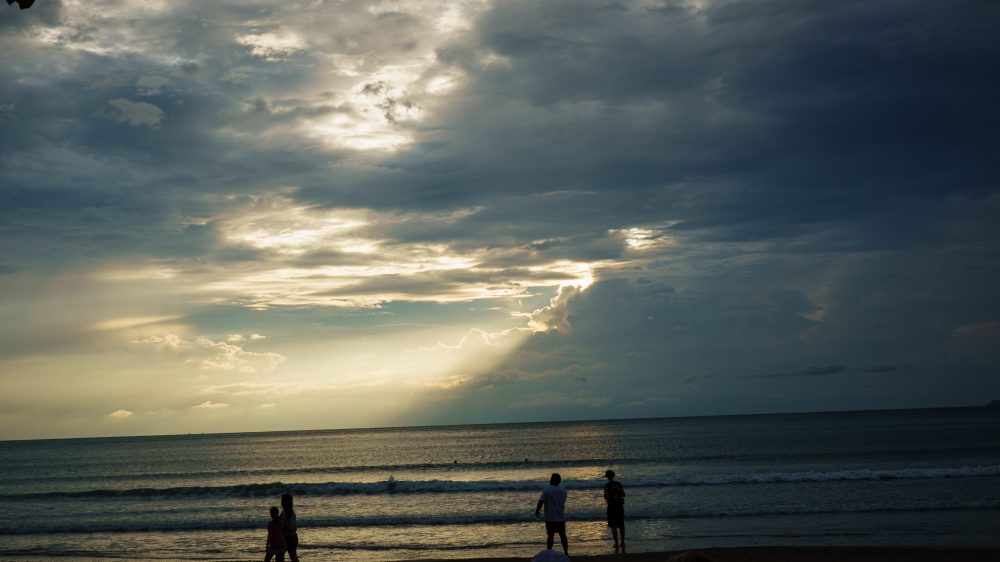
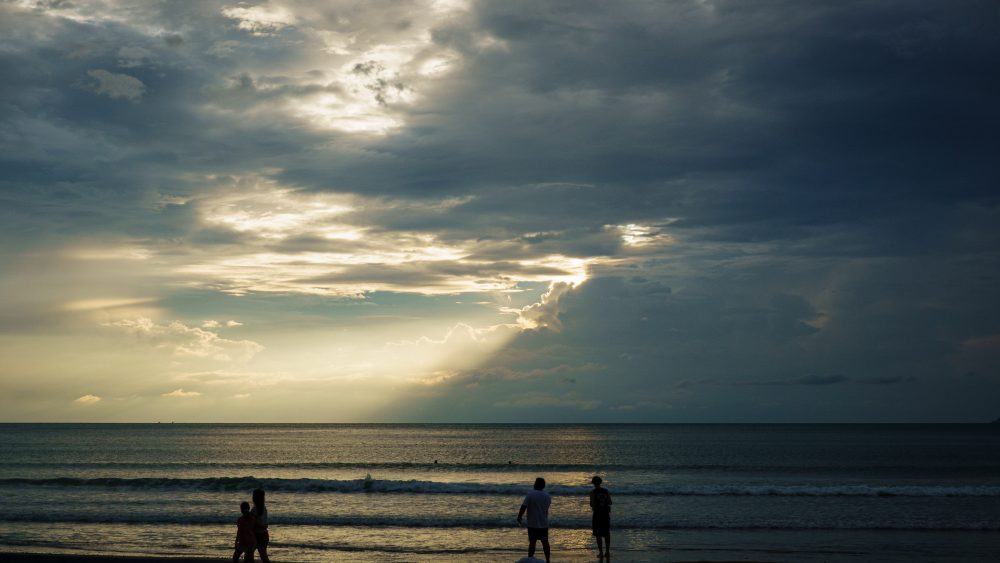
Trip feed: straighten three sea horizons

diff --git a/p/qiEMDSfsdYUv/index.html b/p/qiEMDSfsdYUv/index.html
@@ -129,7 +129,7 @@
 </div></div>
 
 <script>
-const D = {"title": "The Adventures of Rob Rob", "subtitle": "Nature photos from the trip \u00b7 tap any photo for full screen", "end": "That's everything, thanks for looking.", "days": [{"label": "Day 3", "sub": "Macaques, butterflies and the national park", "items": [{"group": "Macaques", "note": "Macaque portrait, looking up into the light", "details": "", "phone": false, "thumb": "img/d3/779.jpg", "full": "img/d3/full/779.jpg", "w": 3648, "h": 5472, "tw": 1000, "fw": 1707, "id": "d3-779"}, {"group": "Macaques", "note": "Two macaques grooming on a branch", "details": "", "phone": false, "thumb": "img/d3/758.jpg", "full": "img/d3/full/758.jpg", "w": 3600, "h": 2400, "tw": 1000, "fw": 2560, "id": "d3-758"}, {"group": "Macaques", "note": "Grooming, with a third macaque watching from behind", "details": "", "phone": false, "thumb": "img/d3/771.jpg", "full": "img/d3/full/771.jpg", "w": 5472, "h": 3648, "tw": 1000, "fw": 2560, "id": "d3-771"}, {"group": "Macaques", "note": "Macaque in profile on a low branch", "details": "", "phone": false, "thumb": "img/d3/763.jpg", "full": "img/d3/full/763.jpg", "w": 4000, "h": 2667, "tw": 1000, "fw": 2560, "id": "d3-763"}, {"group": "Macaques", "note": "Macaque looking down from the fork of a tree", "details": "", "phone": false, "thumb": "img/d3/772.jpg", "full": "img/d3/full/772.jpg", "w": 3648, "h": 5472, "tw": 1000, "fw": 1707, "id": "d3-772"}, {"group": "Macaques", "note": "Macaque on a branch, backlit by the forest", "details": "", "phone": false, "thumb": "img/d3/784.jpg", "full": "img/d3/full/784.jpg", "w": 3600, "h": 2400, "tw": 1000, "fw": 2560, "id": "d3-784"}, {"group": "Macaques", "note": "Macaque lost in thought", "details": "", "phone": false, "thumb": "img/d3/793.jpg", "full": "img/d3/full/793.jpg", "w": 5472, "h": 3648, "tw": 1000, "fw": 2560, "id": "d3-793"}, {"group": "Macaques", "note": "Macaque looking down at its hands", "details": "", "phone": false, "thumb": "img/d3/798.jpg", "full": "img/d3/full/798.jpg", "w": 3648, "h": 5472, "tw": 1000, "fw": 1707, "id": "d3-798"}, {"group": "Insects", "note": "Butterfly with its wings spread on a sunlit leaf", "details": "", "phone": false, "thumb": "img/d3/737.jpg", "full": "img/d3/full/737.jpg", "w": 5472, "h": 3648, "tw": 1000, "fw": 2560, "id": "d3-737"}, {"group": "Insects", "note": "Carpenter bee on a yellow trumpet flower", "details": "", "phone": false, "thumb": "img/d3/754.jpg", "full": "img/d3/full/754.jpg", "w": 3200, "h": 2133, "tw": 1000, "fw": 2560, "id": "d3-754"}, {"group": "Insects", "note": "Giant millipede crossing a log", "details": "", "phone": false, "thumb": "img/d3/715.jpg", "full": "img/d3/full/715.jpg", "w": 4400, "h": 2933, "tw": 1000, "fw": 2560, "id": "d3-715"}, {"group": "Birds", "note": "Common myna, glossy black head and yellow eye patch", "details": "", "phone": false, "thumb": "img/d3/696.jpg", "full": "img/d3/full/696.jpg", "w": 5472, "h": 3648, "tw": 1000, "fw": 2560, "id": "d3-696"}, {"group": "Birds", "note": "Common myna looking up", "details": "", "phone": false, "thumb": "img/d3/699.jpg", "full": "img/d3/full/699.jpg", "w": 3648, "h": 5472, "tw": 1000, "fw": 1707, "id": "d3-699"}, {"group": "Forest & coast", "note": "The lighthouse across the turquoise bay", "details": "", "phone": false, "thumb": "img/d3/742.jpg", "full": "img/d3/full/742.jpg", "w": 4916, "h": 2764, "tw": 1000, "fw": 2560, "id": "d3-742"}, {"group": "Forest & coast", "note": "A little boat on the turquoise sea", "details": "", "phone": false, "thumb": "img/d3/753.jpg", "full": "img/d3/full/753.jpg", "w": 4200, "h": 2800, "tw": 1000, "fw": 2560, "id": "d3-753"}, {"group": "Forest & coast", "note": "Palm against a blue sky", "details": "", "phone": false, "thumb": "img/d3/744.jpg", "full": "img/d3/full/744.jpg", "w": 3648, "h": 5472, "tw": 1000, "fw": 1707, "id": "d3-744"}, {"group": "Forest & coast", "note": "Path through the green tunnel", "details": "", "phone": false, "thumb": "img/d3/710.jpg", "full": "img/d3/full/710.jpg", "w": 3648, "h": 5472, "tw": 1000, "fw": 1707, "id": "d3-710"}, {"group": "Forest & coast", "note": "Sunlight through the park trees", "details": "", "phone": false, "thumb": "img/d3/702.jpg", "full": "img/d3/full/702.jpg", "w": 5472, "h": 3079, "tw": 1000, "fw": 2560, "id": "d3-702"}, {"group": "Forest & coast", "note": "Palms below the hills", "details": "", "phone": false, "thumb": "img/d3/750.jpg", "full": "img/d3/full/750.jpg", "w": 5472, "h": 3079, "tw": 1000, "fw": 2560, "id": "d3-750"}]}, {"label": "Day 2", "sub": "Birds in the rain, reef herons, cats and the coast", "items": [{"group": "Birds", "note": "Bee-eater tossing an insect before swallowing it", "details": "", "phone": false, "thumb": "img/d2/594.jpg", "full": "img/d2/full/594.jpg", "w": 2000, "h": 1333, "tw": 1000, "fw": 2000, "id": "d2-594"}, {"group": "Birds", "note": "Bee-eater with an insect in its beak", "details": "", "phone": false, "thumb": "img/d2/589.jpg", "full": "img/d2/full/589.jpg", "w": 2000, "h": 1333, "tw": 1000, "fw": 2000, "id": "d2-589"}, {"group": "Birds", "note": "Bee-eater on the wire", "details": "", "phone": false, "thumb": "img/d2/607.jpg", "full": "img/d2/full/607.jpg", "w": 2000, "h": 1333, "tw": 1000, "fw": 2000, "id": "d2-607"}, {"group": "Birds", "note": "Swallow on a wire in the rain", "details": "", "phone": false, "thumb": "img/d2/569.jpg", "full": "img/d2/full/569.jpg", "w": 2400, "h": 1600, "tw": 1000, "fw": 2400, "id": "d2-569"}, {"group": "Birds", "note": "Swallow side-on on the wire", "details": "", "phone": false, "thumb": "img/d2/560.jpg", "full": "img/d2/full/560.jpg", "w": 2400, "h": 1600, "tw": 1000, "fw": 2400, "id": "d2-560"}, {"group": "Birds", "note": "Swallow in front of a red tin roof", "details": "", "phone": false, "thumb": "img/d2/566.jpg", "full": "img/d2/full/566.jpg", "w": 2400, "h": 1600, "tw": 1000, "fw": 2400, "id": "d2-566"}, {"group": "Birds", "note": "Swallow on the wire in the rain", "details": "", "phone": false, "thumb": "img/d2/581.jpg", "full": "img/d2/full/581.jpg", "w": 2400, "h": 1600, "tw": 1000, "fw": 2400, "id": "d2-581"}, {"group": "Birds", "note": "White egret on the canal wall", "details": "", "phone": false, "thumb": "img/d2/626.jpg", "full": "img/d2/full/626.jpg", "w": 3600, "h": 2400, "tw": 1000, "fw": 2560, "id": "d2-626"}, {"group": "Birds", "note": "Reef heron on the beach", "details": "", "phone": false, "thumb": "img/d2/660.jpg", "full": "img/d2/full/660.jpg", "w": 3000, "h": 2000, "tw": 1000, "fw": 2560, "id": "d2-660"}, {"group": "Birds", "note": "Reef heron walking the shoreline", "details": "", "phone": false, "thumb": "img/d2/664.jpg", "full": "img/d2/full/664.jpg", "w": 2600, "h": 1733, "tw": 1000, "fw": 2560, "id": "d2-664"}, {"group": "Birds", "note": "Reef heron standing on a rock in the surf", "details": "", "phone": false, "thumb": "img/d2/652.jpg", "full": "img/d2/full/652.jpg", "w": 2200, "h": 1467, "tw": 1000, "fw": 2200, "id": "d2-652"}, {"group": "Birds", "note": "Reef heron crouched on a rock as a wave breaks", "details": "", "phone": false, "thumb": "img/d2/653.jpg", "full": "img/d2/full/653.jpg", "w": 2400, "h": 1600, "tw": 1000, "fw": 2400, "id": "d2-653"}, {"group": "Cats", "note": "Black-and-white cat fast asleep", "details": "", "phone": false, "thumb": "img/d2/637.jpg", "full": "img/d2/full/637.jpg", "w": 5472, "h": 3648, "tw": 1000, "fw": 2560, "id": "d2-637"}, {"group": "Cats", "note": "Tortoiseshell cat curled on the table", "details": "", "phone": false, "thumb": "img/d2/680.jpg", "full": "img/d2/full/680.jpg", "w": 5472, "h": 3648, "tw": 1000, "fw": 2560, "id": "d2-680"}, {"group": "Cats", "note": "Tortoiseshell cat beside a carved eagle", "details": "", "phone": false, "thumb": "img/d2/684.jpg", "full": "img/d2/full/684.jpg", "w": 3648, "h": 5472, "tw": 1000, "fw": 1707, "id": "d2-684"}, {"group": "Cats", "note": "Cat and carved eagle against the sunset", "details": "", "phone": false, "thumb": "img/d2/694.jpg", "full": "img/d2/full/694.jpg", "w": 5472, "h": 3648, "tw": 1000, "fw": 2560, "id": "d2-694"}, {"group": "Landscapes", "note": "Sunset with a longtail boat", "details": "", "phone": false, "thumb": "img/d2/693.jpg", "full": "img/d2/full/693.jpg", "w": 5472, "h": 3079, "tw": 1000, "fw": 2560, "id": "d2-693"}, {"group": "Landscapes", "note": "Wading in the shallows below the karst islands", "details": "", "phone": false, "thumb": "img/d2/640.jpg", "full": "img/d2/full/640.jpg", "w": 5472, "h": 3079, "tw": 1000, "fw": 2560, "id": "d2-640"}, {"group": "Landscapes", "note": "Island at low tide over the red roofs", "details": "", "phone": false, "thumb": "img/d2/645.jpg", "full": "img/d2/full/645.jpg", "w": 5472, "h": 3648, "tw": 1000, "fw": 2560, "id": "d2-645"}]}, {"label": "Day 1", "sub": "Mudflat crabs, mangroves and sunsets", "items": [{"group": "Mudflat crabs", "note": "Tiny bright-blue crab, side-on", "details": "", "phone": false, "thumb": "img/d1/457.jpg", "full": "img/d1/full/457.jpg", "w": 1650, "h": 1100, "tw": 1000, "fw": 1650, "id": "d1-457"}, {"group": "Mudflat crabs", "note": "Spotted fiddler crab beside a fallen leaf", "details": "", "phone": false, "thumb": "img/d1/468.jpg", "full": "img/d1/full/468.jpg", "w": 1500, "h": 1000, "tw": 1000, "fw": 1500, "id": "d1-468"}, {"group": "Mudflat crabs", "note": "Yellow fiddler crab, head-on against a stick", "details": "", "phone": false, "thumb": "img/d1/378.jpg", "full": "img/d1/full/378.jpg", "w": 2400, "h": 1600, "tw": 1000, "fw": 2400, "id": "d1-378"}, {"group": "Mudflat crabs", "note": "Yellow fiddler crab, eyes up on their stalks", "details": "", "phone": false, "thumb": "img/d1/395.jpg", "full": "img/d1/full/395.jpg", "w": 3000, "h": 2000, "tw": 1000, "fw": 2560, "id": "d1-395"}, {"group": "Mudflat crabs", "note": "Yellow fiddler crab, big claw raised", "details": "", "phone": false, "thumb": "img/d1/361.jpg", "full": "img/d1/full/361.jpg", "w": 2000, "h": 1333, "tw": 1000, "fw": 2000, "id": "d1-361"}, {"group": "Mudflat crabs", "note": "Two red fiddler crabs either side of a root", "details": "", "phone": false, "thumb": "img/d1/430.jpg", "full": "img/d1/full/430.jpg", "w": 3000, "h": 2000, "tw": 1000, "fw": 2560, "id": "d1-430"}, {"group": "Mudflat crabs", "note": "Male fiddler crab waving his claw outside the burrow, the female sitting inside", "details": "", "thumb": "img/d1/C0004.jpg", "full": "img/d1/full/C0004.jpg", "video": "img/d1/C0004.mp4", "w": 16, "h": 9, "id": "d1-C0004"}, {"group": "Sea & sky", "note": "A small boat as the sun goes down", "details": "", "phone": false, "thumb": "img/d1/297.jpg", "full": "img/d1/full/297.jpg", "w": 4104, "h": 2309, "tw": 1000, "fw": 2560, "id": "d1-297"}, {"group": "Sea & sky", "note": "A boat on the sun path", "details": "", "phone": false, "thumb": "img/d1/516.jpg", "full": "img/d1/full/516.jpg", "w": 5472, "h": 3079, "tw": 1000, "fw": 2560, "id": "d1-516"}, {"group": "Sea & sky", "note": "Sunset behind a weathered beam on the beach", "details": "", "phone": false, "thumb": "img/d1/255.jpg", "full": "img/d1/full/255.jpg", "w": 5472, "h": 3079, "tw": 1000, "fw": 2560, "id": "d1-255"}, {"group": "Sea & sky", "note": "Golden sea, two figures on the shore", "details": "", "phone": false, "thumb": "img/d1/514.jpg", "full": "img/d1/full/514.jpg", "w": 5472, "h": 3648, "tw": 1000, "fw": 2560, "id": "d1-514"}, {"group": "Sea & sky", "note": "Dusk, a longtail heading past the rock island", "details": "", "phone": false, "thumb": "img/d1/541.jpg", "full": "img/d1/full/541.jpg", "w": 5472, "h": 3079, "tw": 1000, "fw": 2560, "id": "d1-541"}, {"group": "Sea & sky", "note": "Longtail boats moored off the beach at dusk", "details": "", "phone": false, "thumb": "img/d1/528.jpg", "full": "img/d1/full/528.jpg", "w": 5472, "h": 3648, "tw": 1000, "fw": 2560, "id": "d1-528"}, {"group": "Sea & sky", "note": "Storm light breaking over the sea", "details": "", "phone": false, "thumb": "img/d1/146.jpg", "full": "img/d1/full/146.jpg", "w": 4651, "h": 2616, "tw": 1000, "fw": 2560, "id": "d1-146"}, {"group": "Sea & sky", "note": "A blue-grey day on the beach", "details": "", "phone": false, "thumb": "img/d1/70.jpg", "full": "img/d1/full/70.jpg", "w": 3830, "h": 2152, "tw": 1000, "fw": 2560, "id": "d1-70"}, {"group": "Mangroves & islands", "note": "Boatman in the mangroves", "details": "", "phone": false, "thumb": "img/d1/498.jpg", "full": "img/d1/full/498.jpg", "w": 4378, "h": 2919, "tw": 1000, "fw": 2560, "id": "d1-498"}, {"group": "Mangroves & islands", "note": "Longtails moored along the mangrove channel", "details": "", "phone": false, "thumb": "img/d1/314.jpg", "full": "img/d1/full/314.jpg", "w": 5472, "h": 3648, "tw": 1000, "fw": 2560, "id": "d1-314"}, {"group": "Mangroves & islands", "note": "Kayakers in the mangrove channel", "details": "", "phone": false, "thumb": "img/d1/319.jpg", "full": "img/d1/full/319.jpg", "w": 4378, "h": 2919, "tw": 1000, "fw": 2560, "id": "d1-319"}, {"group": "Mangroves & islands", "note": "Islands from the viewpoint", "details": "", "phone": false, "thumb": "img/d1/156.jpg", "full": "img/d1/full/156.jpg", "w": 5472, "h": 3079, "tw": 1000, "fw": 2560, "id": "d1-156"}, {"group": "Mangroves & islands", "note": "Island and the radio mast from the viewpoint", "details": "", "phone": false, "thumb": "img/d1/160.jpg", "full": "img/d1/full/160.jpg", "w": 5472, "h": 3079, "tw": 1000, "fw": 2560, "id": "d1-160"}, {"group": "Mangroves & islands", "note": "The lake under a big sky", "details": "", "phone": false, "thumb": "img/d1/68.jpg", "full": "img/d1/full/68.jpg", "w": 5472, "h": 3079, "tw": 1000, "fw": 2560, "id": "d1-68"}, {"group": "Cats", "note": "Calico cat fast asleep", "details": "", "phone": false, "thumb": "img/d1/311.jpg", "full": "img/d1/full/311.jpg", "w": 5472, "h": 3079, "tw": 1000, "fw": 2560, "id": "d1-311"}]}]};
+const D = {"title": "The Adventures of Rob Rob", "subtitle": "Nature photos from the trip \u00b7 tap any photo for full screen", "end": "That's everything, thanks for looking.", "days": [{"label": "Day 3", "sub": "Macaques, butterflies and the national park", "items": [{"group": "Macaques", "note": "Macaque portrait, looking up into the light", "details": "", "phone": false, "thumb": "img/d3/779.jpg", "full": "img/d3/full/779.jpg", "w": 3648, "h": 5472, "tw": 1000, "fw": 1707, "id": "d3-779"}, {"group": "Macaques", "note": "Two macaques grooming on a branch", "details": "", "phone": false, "thumb": "img/d3/758.jpg", "full": "img/d3/full/758.jpg", "w": 3600, "h": 2400, "tw": 1000, "fw": 2560, "id": "d3-758"}, {"group": "Macaques", "note": "Grooming, with a third macaque watching from behind", "details": "", "phone": false, "thumb": "img/d3/771.jpg", "full": "img/d3/full/771.jpg", "w": 5472, "h": 3648, "tw": 1000, "fw": 2560, "id": "d3-771"}, {"group": "Macaques", "note": "Macaque in profile on a low branch", "details": "", "phone": false, "thumb": "img/d3/763.jpg", "full": "img/d3/full/763.jpg", "w": 4000, "h": 2667, "tw": 1000, "fw": 2560, "id": "d3-763"}, {"group": "Macaques", "note": "Macaque looking down from the fork of a tree", "details": "", "phone": false, "thumb": "img/d3/772.jpg", "full": "img/d3/full/772.jpg", "w": 3648, "h": 5472, "tw": 1000, "fw": 1707, "id": "d3-772"}, {"group": "Macaques", "note": "Macaque on a branch, backlit by the forest", "details": "", "phone": false, "thumb": "img/d3/784.jpg", "full": "img/d3/full/784.jpg", "w": 3600, "h": 2400, "tw": 1000, "fw": 2560, "id": "d3-784"}, {"group": "Macaques", "note": "Macaque lost in thought", "details": "", "phone": false, "thumb": "img/d3/793.jpg", "full": "img/d3/full/793.jpg", "w": 5472, "h": 3648, "tw": 1000, "fw": 2560, "id": "d3-793"}, {"group": "Macaques", "note": "Macaque looking down at its hands", "details": "", "phone": false, "thumb": "img/d3/798.jpg", "full": "img/d3/full/798.jpg", "w": 3648, "h": 5472, "tw": 1000, "fw": 1707, "id": "d3-798"}, {"group": "Insects", "note": "Butterfly with its wings spread on a sunlit leaf", "details": "", "phone": false, "thumb": "img/d3/737.jpg", "full": "img/d3/full/737.jpg", "w": 5472, "h": 3648, "tw": 1000, "fw": 2560, "id": "d3-737"}, {"group": "Insects", "note": "Carpenter bee on a yellow trumpet flower", "details": "", "phone": false, "thumb": "img/d3/754.jpg", "full": "img/d3/full/754.jpg", "w": 3200, "h": 2133, "tw": 1000, "fw": 2560, "id": "d3-754"}, {"group": "Insects", "note": "Giant millipede crossing a log", "details": "", "phone": false, "thumb": "img/d3/715.jpg", "full": "img/d3/full/715.jpg", "w": 4400, "h": 2933, "tw": 1000, "fw": 2560, "id": "d3-715"}, {"group": "Birds", "note": "Common myna, glossy black head and yellow eye patch", "details": "", "phone": false, "thumb": "img/d3/696.jpg", "full": "img/d3/full/696.jpg", "w": 5472, "h": 3648, "tw": 1000, "fw": 2560, "id": "d3-696"}, {"group": "Birds", "note": "Common myna looking up", "details": "", "phone": false, "thumb": "img/d3/699.jpg", "full": "img/d3/full/699.jpg", "w": 3648, "h": 5472, "tw": 1000, "fw": 1707, "id": "d3-699"}, {"group": "Forest & coast", "note": "The lighthouse across the turquoise bay", "details": "", "phone": false, "thumb": "img/d3/742.jpg", "full": "img/d3/full/742.jpg", "w": 4916, "h": 2764, "tw": 1000, "fw": 2560, "id": "d3-742"}, {"group": "Forest & coast", "note": "A little boat on the turquoise sea", "details": "", "phone": false, "thumb": "img/d3/753.jpg", "full": "img/d3/full/753.jpg", "w": 4200, "h": 2800, "tw": 1000, "fw": 2560, "id": "d3-753"}, {"group": "Forest & coast", "note": "Palm against a blue sky", "details": "", "phone": false, "thumb": "img/d3/744.jpg", "full": "img/d3/full/744.jpg", "w": 3648, "h": 5472, "tw": 1000, "fw": 1707, "id": "d3-744"}, {"group": "Forest & coast", "note": "Path through the green tunnel", "details": "", "phone": false, "thumb": "img/d3/710.jpg", "full": "img/d3/full/710.jpg", "w": 3648, "h": 5472, "tw": 1000, "fw": 1707, "id": "d3-710"}, {"group": "Forest & coast", "note": "Sunlight through the park trees", "details": "", "phone": false, "thumb": "img/d3/702.jpg", "full": "img/d3/full/702.jpg", "w": 5472, "h": 3079, "tw": 1000, "fw": 2560, "id": "d3-702"}, {"group": "Forest & coast", "note": "Palms below the hills", "details": "", "phone": false, "thumb": "img/d3/750.jpg", "full": "img/d3/full/750.jpg", "w": 5472, "h": 3079, "tw": 1000, "fw": 2560, "id": "d3-750"}]}, {"label": "Day 2", "sub": "Birds in the rain, reef herons, cats and the coast", "items": [{"group": "Birds", "note": "Bee-eater tossing an insect before swallowing it", "details": "", "phone": false, "thumb": "img/d2/594.jpg", "full": "img/d2/full/594.jpg", "w": 2000, "h": 1333, "tw": 1000, "fw": 2000, "id": "d2-594"}, {"group": "Birds", "note": "Bee-eater with an insect in its beak", "details": "", "phone": false, "thumb": "img/d2/589.jpg", "full": "img/d2/full/589.jpg", "w": 2000, "h": 1333, "tw": 1000, "fw": 2000, "id": "d2-589"}, {"group": "Birds", "note": "Bee-eater on the wire", "details": "", "phone": false, "thumb": "img/d2/607.jpg", "full": "img/d2/full/607.jpg", "w": 2000, "h": 1333, "tw": 1000, "fw": 2000, "id": "d2-607"}, {"group": "Birds", "note": "Swallow on a wire in the rain", "details": "", "phone": false, "thumb": "img/d2/569.jpg", "full": "img/d2/full/569.jpg", "w": 2400, "h": 1600, "tw": 1000, "fw": 2400, "id": "d2-569"}, {"group": "Birds", "note": "Swallow side-on on the wire", "details": "", "phone": false, "thumb": "img/d2/560.jpg", "full": "img/d2/full/560.jpg", "w": 2400, "h": 1600, "tw": 1000, "fw": 2400, "id": "d2-560"}, {"group": "Birds", "note": "Swallow in front of a red tin roof", "details": "", "phone": false, "thumb": "img/d2/566.jpg", "full": "img/d2/full/566.jpg", "w": 2400, "h": 1600, "tw": 1000, "fw": 2400, "id": "d2-566"}, {"group": "Birds", "note": "Swallow on the wire in the rain", "details": "", "phone": false, "thumb": "img/d2/581.jpg", "full": "img/d2/full/581.jpg", "w": 2400, "h": 1600, "tw": 1000, "fw": 2400, "id": "d2-581"}, {"group": "Birds", "note": "White egret on the canal wall", "details": "", "phone": false, "thumb": "img/d2/626.jpg", "full": "img/d2/full/626.jpg", "w": 3600, "h": 2400, "tw": 1000, "fw": 2560, "id": "d2-626"}, {"group": "Birds", "note": "Reef heron on the beach", "details": "", "phone": false, "thumb": "img/d2/660.jpg", "full": "img/d2/full/660.jpg", "w": 3000, "h": 2000, "tw": 1000, "fw": 2560, "id": "d2-660"}, {"group": "Birds", "note": "Reef heron walking the shoreline", "details": "", "phone": false, "thumb": "img/d2/664.jpg", "full": "img/d2/full/664.jpg", "w": 2600, "h": 1733, "tw": 1000, "fw": 2560, "id": "d2-664"}, {"group": "Birds", "note": "Reef heron standing on a rock in the surf", "details": "", "phone": false, "thumb": "img/d2/652.jpg", "full": "img/d2/full/652.jpg", "w": 2200, "h": 1467, "tw": 1000, "fw": 2200, "id": "d2-652"}, {"group": "Birds", "note": "Reef heron crouched on a rock as a wave breaks", "details": "", "phone": false, "thumb": "img/d2/653.jpg", "full": "img/d2/full/653.jpg", "w": 2400, "h": 1600, "tw": 1000, "fw": 2400, "id": "d2-653"}, {"group": "Cats", "note": "Black-and-white cat fast asleep", "details": "", "phone": false, "thumb": "img/d2/637.jpg", "full": "img/d2/full/637.jpg", "w": 5472, "h": 3648, "tw": 1000, "fw": 2560, "id": "d2-637"}, {"group": "Cats", "note": "Tortoiseshell cat curled on the table", "details": "", "phone": false, "thumb": "img/d2/680.jpg", "full": "img/d2/full/680.jpg", "w": 5472, "h": 3648, "tw": 1000, "fw": 2560, "id": "d2-680"}, {"group": "Cats", "note": "Tortoiseshell cat beside a carved eagle", "details": "", "phone": false, "thumb": "img/d2/684.jpg", "full": "img/d2/full/684.jpg", "w": 3648, "h": 5472, "tw": 1000, "fw": 1707, "id": "d2-684"}, {"group": "Cats", "note": "Cat and carved eagle against the sunset", "details": "", "phone": false, "thumb": "img/d2/694.jpg", "full": "img/d2/full/694.jpg", "w": 5472, "h": 3648, "tw": 1000, "fw": 2560, "id": "d2-694"}, {"group": "Landscapes", "note": "Sunset with a longtail boat", "details": "", "phone": false, "thumb": "img/d2/693.jpg", "full": "img/d2/full/693.jpg", "w": 5298, "h": 2980, "tw": 1000, "fw": 2560, "id": "d2-693"}, {"group": "Landscapes", "note": "Wading in the shallows below the karst islands", "details": "", "phone": false, "thumb": "img/d2/640.jpg", "full": "img/d2/full/640.jpg", "w": 5472, "h": 3079, "tw": 1000, "fw": 2560, "id": "d2-640"}, {"group": "Landscapes", "note": "Island at low tide over the red roofs", "details": "", "phone": false, "thumb": "img/d2/645.jpg", "full": "img/d2/full/645.jpg", "w": 5472, "h": 3648, "tw": 1000, "fw": 2560, "id": "d2-645"}]}, {"label": "Day 1", "sub": "Mudflat crabs, mangroves and sunsets", "items": [{"group": "Mudflat crabs", "note": "Tiny bright-blue crab, side-on", "details": "", "phone": false, "thumb": "img/d1/457.jpg", "full": "img/d1/full/457.jpg", "w": 1650, "h": 1100, "tw": 1000, "fw": 1650, "id": "d1-457"}, {"group": "Mudflat crabs", "note": "Spotted fiddler crab beside a fallen leaf", "details": "", "phone": false, "thumb": "img/d1/468.jpg", "full": "img/d1/full/468.jpg", "w": 1500, "h": 1000, "tw": 1000, "fw": 1500, "id": "d1-468"}, {"group": "Mudflat crabs", "note": "Yellow fiddler crab, head-on against a stick", "details": "", "phone": false, "thumb": "img/d1/378.jpg", "full": "img/d1/full/378.jpg", "w": 2400, "h": 1600, "tw": 1000, "fw": 2400, "id": "d1-378"}, {"group": "Mudflat crabs", "note": "Yellow fiddler crab, eyes up on their stalks", "details": "", "phone": false, "thumb": "img/d1/395.jpg", "full": "img/d1/full/395.jpg", "w": 3000, "h": 2000, "tw": 1000, "fw": 2560, "id": "d1-395"}, {"group": "Mudflat crabs", "note": "Yellow fiddler crab, big claw raised", "details": "", "phone": false, "thumb": "img/d1/361.jpg", "full": "img/d1/full/361.jpg", "w": 2000, "h": 1333, "tw": 1000, "fw": 2000, "id": "d1-361"}, {"group": "Mudflat crabs", "note": "Two red fiddler crabs either side of a root", "details": "", "phone": false, "thumb": "img/d1/430.jpg", "full": "img/d1/full/430.jpg", "w": 3000, "h": 2000, "tw": 1000, "fw": 2560, "id": "d1-430"}, {"group": "Mudflat crabs", "note": "Male fiddler crab waving his claw outside the burrow, the female sitting inside", "details": "", "thumb": "img/d1/C0004.jpg", "full": "img/d1/full/C0004.jpg", "video": "img/d1/C0004.mp4", "w": 16, "h": 9, "id": "d1-C0004"}, {"group": "Sea & sky", "note": "A small boat as the sun goes down", "details": "", "phone": false, "thumb": "img/d1/297.jpg", "full": "img/d1/full/297.jpg", "w": 4104, "h": 2309, "tw": 1000, "fw": 2560, "id": "d1-297"}, {"group": "Sea & sky", "note": "A boat on the sun path", "details": "", "phone": false, "thumb": "img/d1/516.jpg", "full": "img/d1/full/516.jpg", "w": 5472, "h": 3079, "tw": 1000, "fw": 2560, "id": "d1-516"}, {"group": "Sea & sky", "note": "Sunset behind a weathered beam on the beach", "details": "", "phone": false, "thumb": "img/d1/255.jpg", "full": "img/d1/full/255.jpg", "w": 5472, "h": 3079, "tw": 1000, "fw": 2560, "id": "d1-255"}, {"group": "Sea & sky", "note": "Golden sea, two figures on the shore", "details": "", "phone": false, "thumb": "img/d1/514.jpg", "full": "img/d1/full/514.jpg", "w": 5380, "h": 3587, "tw": 1000, "fw": 2560, "id": "d1-514"}, {"group": "Sea & sky", "note": "Dusk, a longtail heading past the rock island", "details": "", "phone": false, "thumb": "img/d1/541.jpg", "full": "img/d1/full/541.jpg", "w": 5472, "h": 3079, "tw": 1000, "fw": 2560, "id": "d1-541"}, {"group": "Sea & sky", "note": "Longtail boats moored off the beach at dusk", "details": "", "phone": false, "thumb": "img/d1/528.jpg", "full": "img/d1/full/528.jpg", "w": 5472, "h": 3648, "tw": 1000, "fw": 2560, "id": "d1-528"}, {"group": "Sea & sky", "note": "Storm light breaking over the sea", "details": "", "phone": false, "thumb": "img/d1/146.jpg", "full": "img/d1/full/146.jpg", "w": 4453, "h": 2505, "tw": 1000, "fw": 2560, "id": "d1-146"}, {"group": "Sea & sky", "note": "A blue-grey day on the beach", "details": "", "phone": false, "thumb": "img/d1/70.jpg", "full": "img/d1/full/70.jpg", "w": 3830, "h": 2152, "tw": 1000, "fw": 2560, "id": "d1-70"}, {"group": "Mangroves & islands", "note": "Boatman in the mangroves", "details": "", "phone": false, "thumb": "img/d1/498.jpg", "full": "img/d1/full/498.jpg", "w": 4378, "h": 2919, "tw": 1000, "fw": 2560, "id": "d1-498"}, {"group": "Mangroves & islands", "note": "Longtails moored along the mangrove channel", "details": "", "phone": false, "thumb": "img/d1/314.jpg", "full": "img/d1/full/314.jpg", "w": 5472, "h": 3648, "tw": 1000, "fw": 2560, "id": "d1-314"}, {"group": "Mangroves & islands", "note": "Kayakers in the mangrove channel", "details": "", "phone": false, "thumb": "img/d1/319.jpg", "full": "img/d1/full/319.jpg", "w": 4378, "h": 2919, "tw": 1000, "fw": 2560, "id": "d1-319"}, {"group": "Mangroves & islands", "note": "Islands from the viewpoint", "details": "", "phone": false, "thumb": "img/d1/156.jpg", "full": "img/d1/full/156.jpg", "w": 5472, "h": 3079, "tw": 1000, "fw": 2560, "id": "d1-156"}, {"group": "Mangroves & islands", "note": "Island and the radio mast from the viewpoint", "details": "", "phone": false, "thumb": "img/d1/160.jpg", "full": "img/d1/full/160.jpg", "w": 5472, "h": 3079, "tw": 1000, "fw": 2560, "id": "d1-160"}, {"group": "Mangroves & islands", "note": "The lake under a big sky", "details": "", "phone": false, "thumb": "img/d1/68.jpg", "full": "img/d1/full/68.jpg", "w": 5472, "h": 3079, "tw": 1000, "fw": 2560, "id": "d1-68"}, {"group": "Cats", "note": "Calico cat fast asleep", "details": "", "phone": false, "thumb": "img/d1/311.jpg", "full": "img/d1/full/311.jpg", "w": 5472, "h": 3079, "tw": 1000, "fw": 2560, "id": "d1-311"}]}]};
 let editing = false; const removed = new Set();   // edit mode state (local only)
 // flatten: every item knows its day + group; the viewer browses across days
 const all = []; D.days.forEach((d, di) => d.items.forEach(i => all.push(Object.assign({day: di}, i))));
